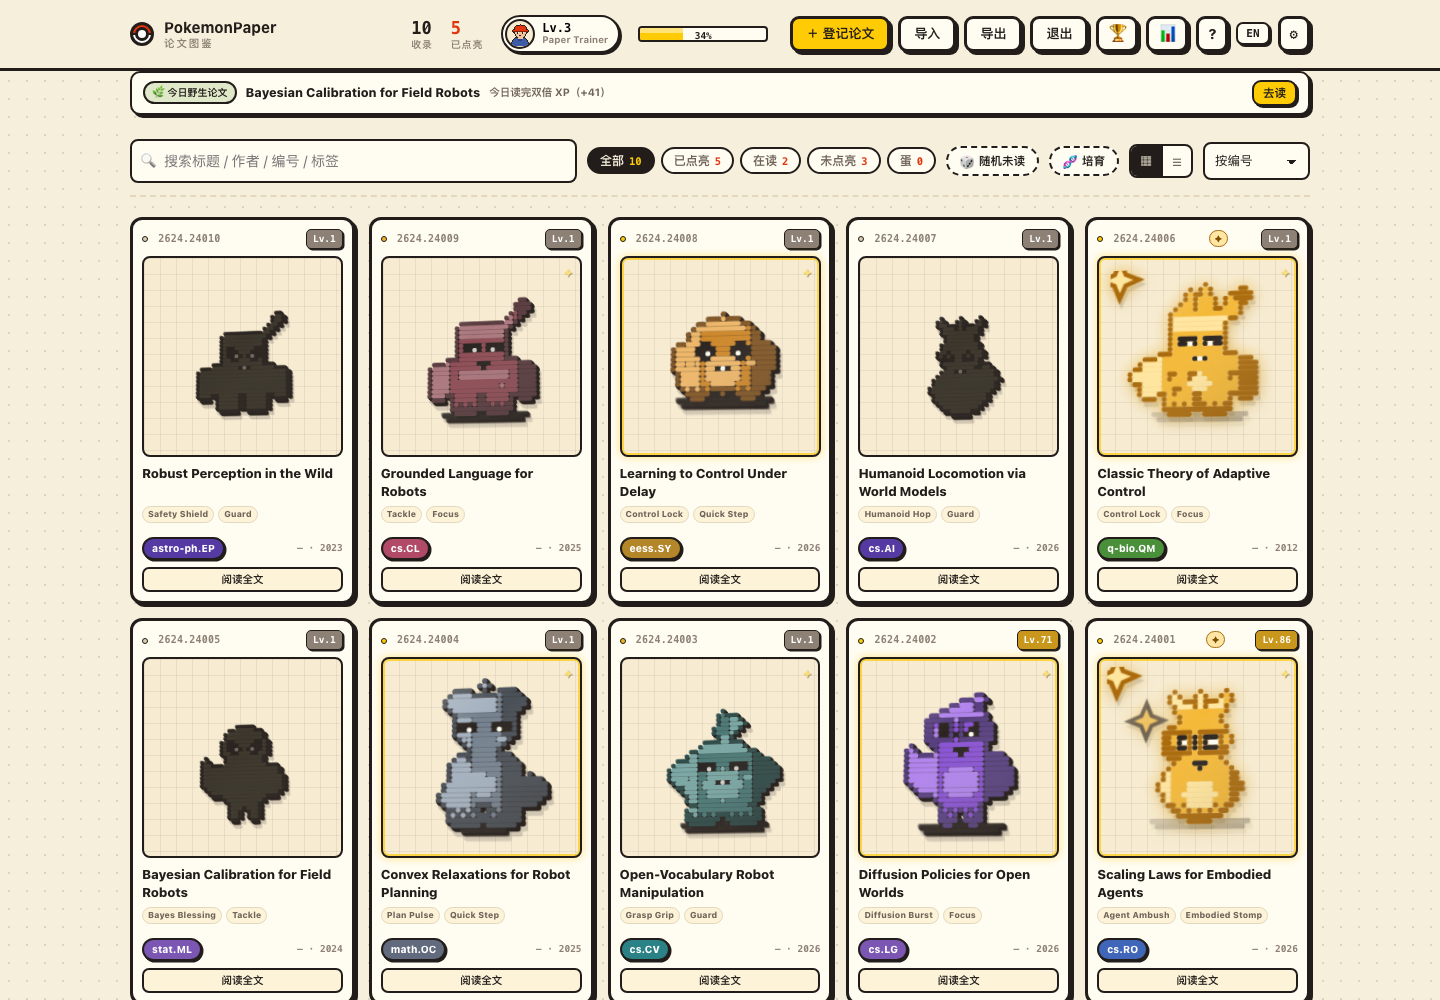
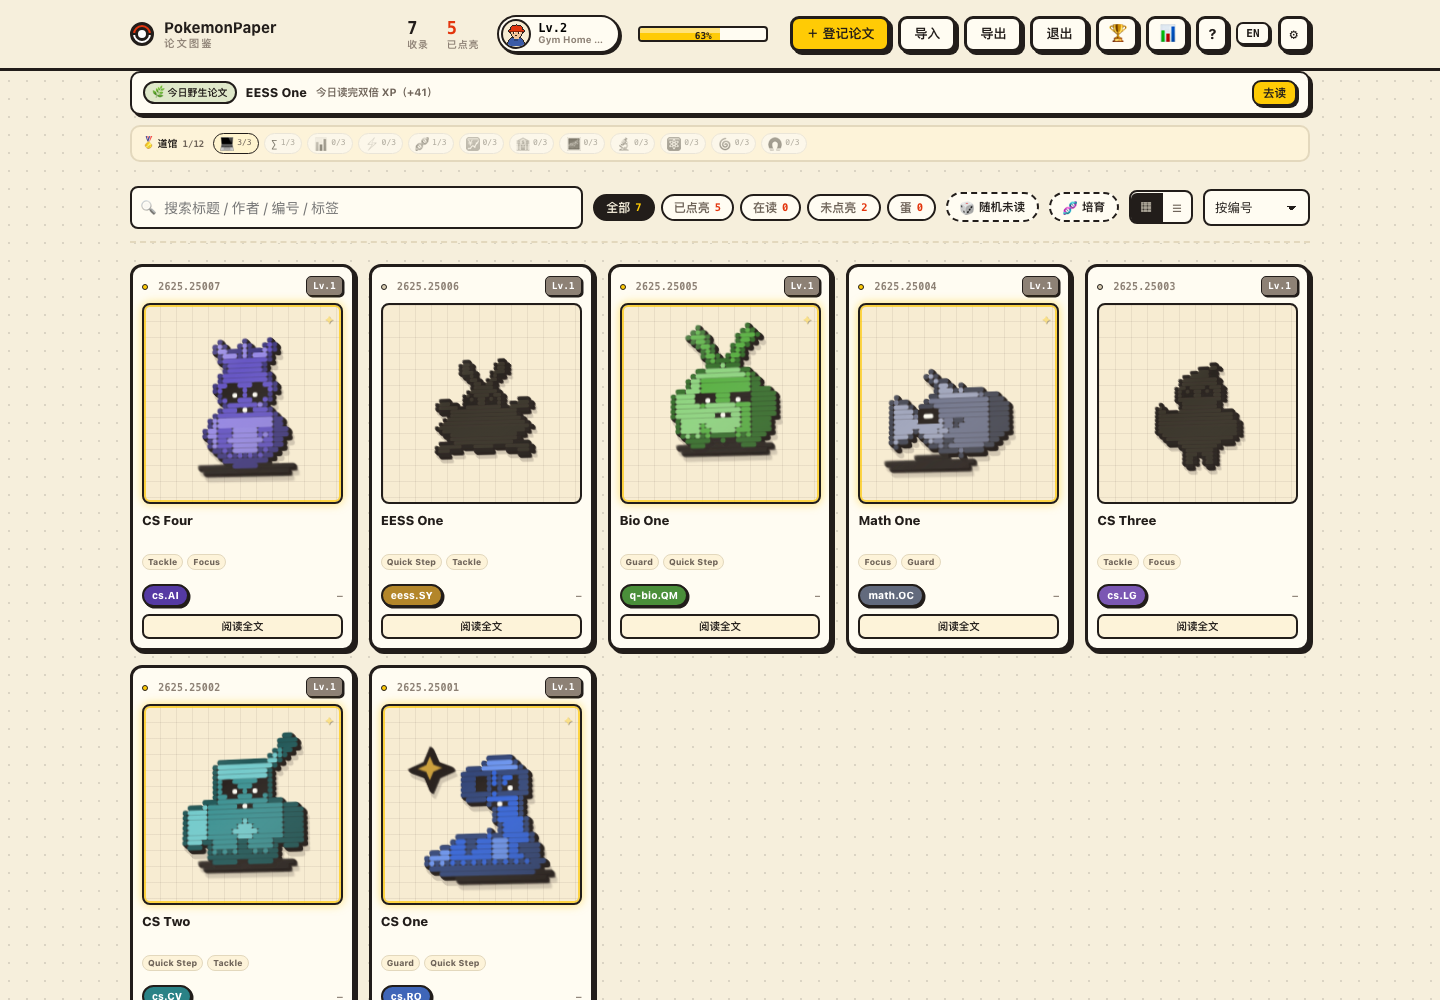
feat: gym strip and field filter on the dex homepage

diff --git a/src/views/DexView.vue b/src/views/DexView.vue
@@ -10,6 +10,7 @@ import { paperLevel } from '../core/level'
 import { t } from '../core/i18n'
 import { api } from '../core/api'
 import type { DailyPick } from '../core/types'
+import { gymStatus, paperInGym } from '../core/gyms'
 
 const store = usePapersStore()
 const router = useRouter()
@@ -20,6 +21,14 @@ const sort = ref<'arxiv' | 'added' | 'rating' | 'level'>('arxiv')
 const searchInput = ref<HTMLInputElement | null>(null)
 const daily = ref<DailyPick | null>(null)
 const breedOpen = ref(false)
+const gymFilter = ref<string | null>(null)
+
+const gyms = computed(() => gymStatus(store.items))
+const gymEarned = computed(() => gyms.value.filter((gym) => gym.earned).length)
+
+function toggleGymFilter(id: string) {
+  gymFilter.value = gymFilter.value === id ? null : id
+}
 
 const counts = computed(() => ({
   all: store.items.length,
@@ -32,6 +41,7 @@ const counts = computed(() => ({
 const filtered = computed(() => {
   const q = query.value.trim().toLowerCase()
   const list = store.items.filter((paper) => {
+    if (gymFilter.value && !paperInGym(paper, gymFilter.value)) return false
     if (filter.value === 'egg' && !paper.eggAt) return false
     if (filter.value !== 'all' && filter.value !== 'egg' && paper.status !== filter.value) return false
     if (!q) return true
@@ -110,6 +120,33 @@ onBeforeUnmount(() => document.removeEventListener('keydown', onKeydown))
       <span class="spacer" />
       <button type="button" class="btn sm" @click="openDaily">
         {{ daily.claimed ? t('查看') : t('去读') }}
+      </button>
+    </section>
+
+    <section v-if="store.items.length" class="gym-strip">
+      <span class="gym-strip-label">
+        🏅 {{ t('道馆') }}
+        <b class="mono">{{ gymEarned }}/{{ gyms.length }}</b>
+      </span>
+      <button
+        v-for="gym in gyms"
+        :key="gym.id"
+        type="button"
+        class="gym-pill"
+        :class="{ on: gym.earned, active: gymFilter === gym.id }"
+        :title="`${t(gym.name)} · ${gym.readCount}/${gym.read} · ${gym.noteCount}/${gym.notes}`"
+        @click="toggleGymFilter(gym.id)"
+      >
+        <span class="gym-strip-icon">{{ gym.icon }}</span>
+        <small class="mono">{{ gym.readCount }}/{{ gym.read }}</small>
+      </button>
+      <button
+        v-if="gymFilter"
+        type="button"
+        class="gym-clear"
+        @click="gymFilter = null"
+      >
+        {{ t('清除') }}
       </button>
     </section>
 
@@ -229,6 +266,79 @@ onBeforeUnmount(() => document.removeEventListener('keydown', onKeydown))
 <style scoped>
 .page {
   padding-bottom: 60px;
+}
+
+.gym-strip {
+  display: flex;
+  align-items: center;
+  flex-wrap: wrap;
+  gap: 5px;
+  margin-bottom: 10px;
+  padding: 6px 10px;
+  border: 2px solid var(--line);
+  border-radius: 10px;
+  background: var(--panel-2);
+}
+
+.gym-strip-label {
+  display: inline-flex;
+  align-items: baseline;
+  gap: 5px;
+  margin-right: 4px;
+  font-size: 10px;
+  font-weight: 900;
+  flex: none;
+}
+
+.gym-strip-label b {
+  font-size: 9px;
+  color: var(--muted);
+}
+
+.gym-pill {
+  display: inline-flex;
+  align-items: center;
+  gap: 3px;
+  padding: 1px 6px;
+  border: 1.5px solid var(--line);
+  border-radius: 999px;
+  background: var(--panel);
+  font-size: 11px;
+  line-height: 1.6;
+  opacity: 0.5;
+  filter: grayscale(1);
+}
+
+.gym-pill.on {
+  opacity: 1;
+  filter: none;
+  border-color: var(--ink);
+  background: #fff4cf;
+}
+
+.gym-pill.active {
+  box-shadow: 0 0 0 2px var(--ink);
+  opacity: 1;
+  filter: none;
+}
+
+.gym-strip-icon {
+  font-size: 11px;
+}
+
+.gym-pill small {
+  font-size: 8px;
+  color: var(--muted);
+}
+
+.gym-clear {
+  margin-left: auto;
+  border: none;
+  background: none;
+  font-size: 9px;
+  font-weight: 800;
+  color: var(--muted);
+  text-decoration: underline;
 }
 
 .wild {

diff --git a/src/core/gyms.ts b/src/core/gyms.ts
@@ -57,3 +57,8 @@ export function gymStatus(papers: Paper[]): GymStatus[] {
     }
   })
 }
+
+export function paperInGym(paper: Paper, gymId: string): boolean {
+  const gym = GYMS.find((item) => item.id === gymId)
+  return gym ? belongs(paper, gym) : false
+}

diff --git a/README.md b/README.md
@@ -47,7 +47,7 @@ All data stays in a local SQLite file. No cloud. The UI switches between Chinese
 | ✨ **Shiny variants** | High stars, top venues, decade-old classics and 1/64 hashes get a gold palette, sparkles and a shiny tag |
 | 🔊 **8-bit cries** | Every arXiv ID has a deterministic 3–5 note WebAudio cry, played when it lights up; can be muted in settings |
 | ❤ **Bond** | Notes, revisits and reading time build a 0–100 bond (stored locally); tiers light up hearts on the detail sheet |
-| 🏅 **Gyms** | 12 gyms by arXiv field; read 3 papers and write a note on one to earn the badge, shown on the profile and guide |
+| 🏅 **Gyms** | 12 gyms by arXiv field; read 3 papers and write a note on one to earn the badge. A strip on the dex shows progress and filters by field |
 | 🌿 **Daily wild paper** | One deterministic unread paper per day; finishing it that day doubles its XP |
 | 🖼 **Share card** | Export a paper as a 640×900 PNG card with its sprite, level, category and trainer |
 | ✍ **Manual summary** | Write or edit Markdown in the summary tab; share the same field as AI generation and can be made public |
@@ -488,7 +488,7 @@ MIT © idejie
 | ✨ **异色精灵** | 高 star、顶会/顶刊、十年经典或 1/64 哈希命中，获得金色配色、粒子和 ✦ 标记 |
 | 🔊 **8-bit 叫声** | 每个 arXiv 号确定性生成 3–5 个音符的 WebAudio 叫声，点亮时播放，可在设置里关闭 |
 | ❤ **羁绊** | 笔记、复访和阅读时长累积 0–100 羁绊（本地记录），等级点亮详情页爱心 |
-| 🏅 **道馆** | 按 arXiv 大类设 12 座道馆，读满 3 篇 + 1 篇笔记得徽章，展示在档案和 Guide |
+| 🏅 **道馆** | 按 arXiv 大类设 12 座道馆，读满 3 篇 + 1 篇笔记得徽章；主页有道馆进度条，点击可按领域筛选 |
 | 🌿 **每日野生论文** | 每天按账号确定性抽一篇未读论文，当天读完双倍 XP |
 | 🖼 **分享卡** | 一键导出论文卡 PNG（精灵、等级、分类、训练家），适合发推 / 朋友圈 |
 | ✍ **手动总结** | 总结页可直接写 / 改 Markdown，和 AI 生成共用同一字段；可设为公开 |
